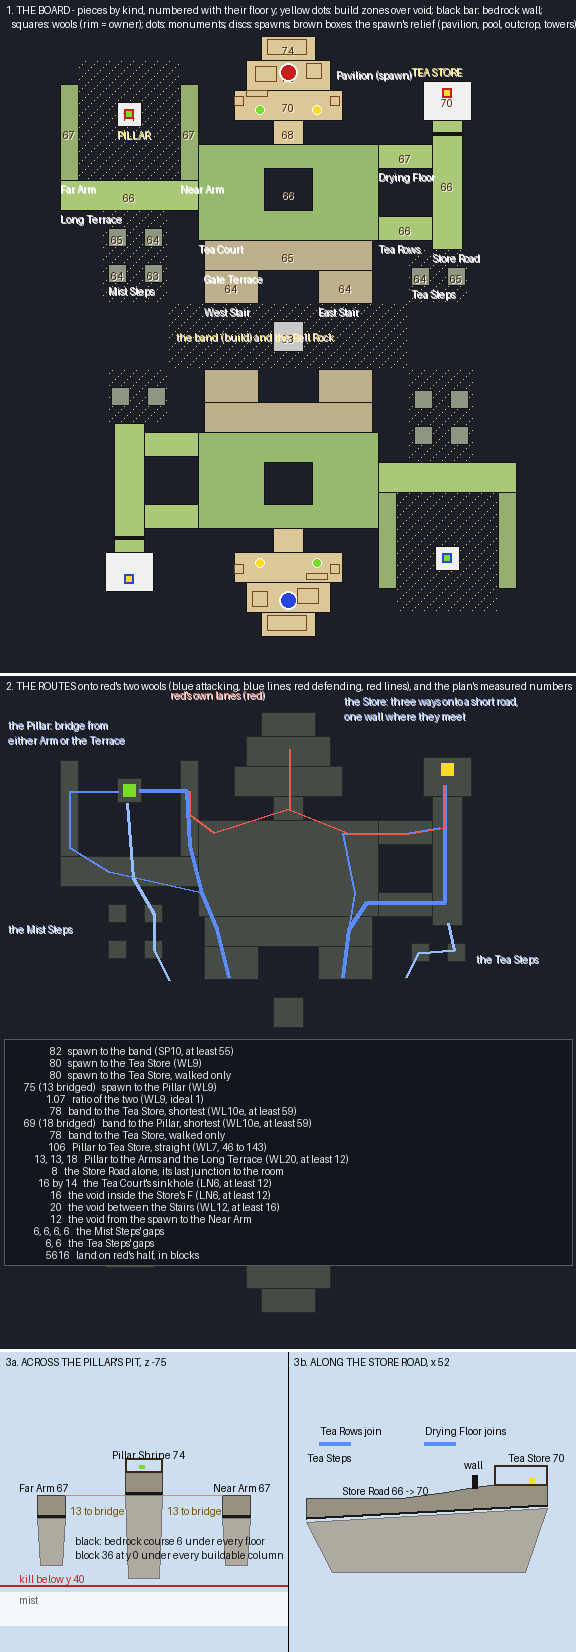
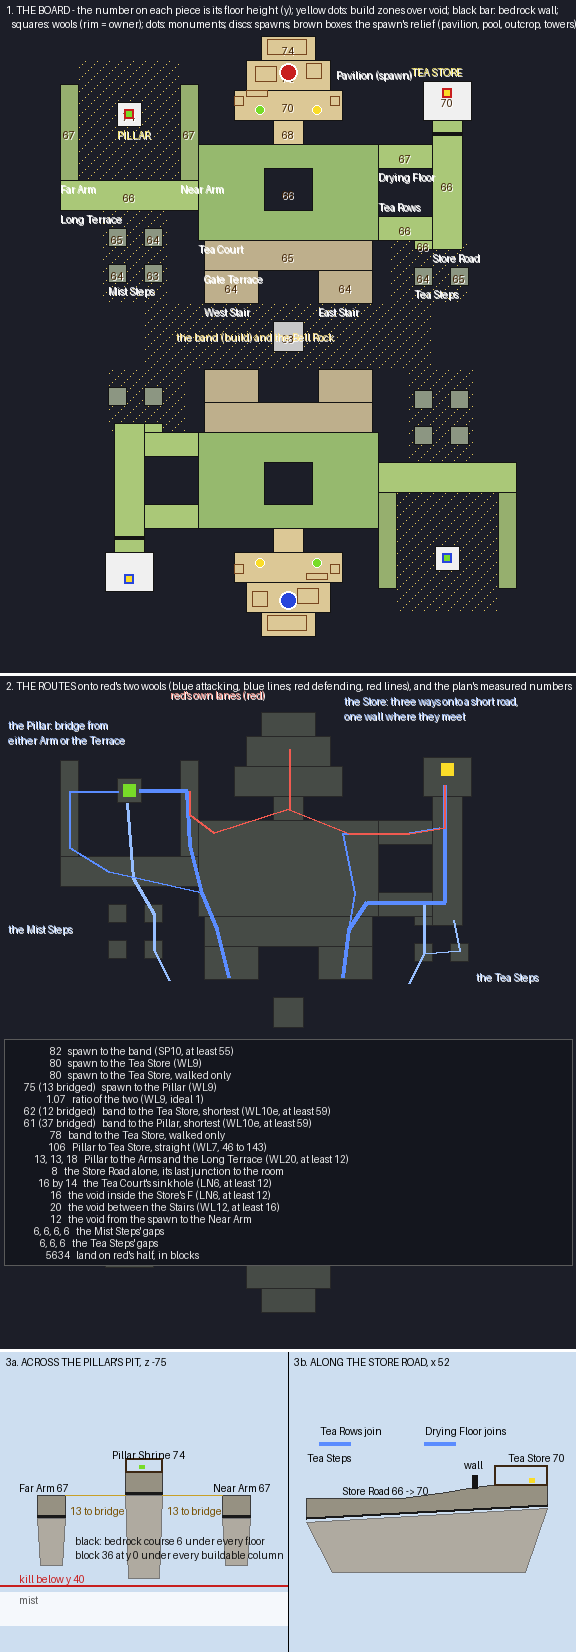
Lantern Karst (CTW): band widened under the first steps, Tea Steps zone meets the Rows, Tea Landing added
Claude-Session: https://claude.ai/code/session_01JFykgZF2FRCqGGugXE9LUG

diff --git a/freeform/opus55-freeform-lantern-karst/scripts/sketch.py b/freeform/opus55-freeform-lantern-karst/scripts/sketch.py
@@ -84,6 +84,8 @@ def board(d, oy):
     for p in P.PIECES:
         if p["key"] in names:
             x0 = min(q[0] for q in p["poly"]); z1 = max(q[1] for q in p["poly"])
+            if p["key"] == "rows":
+                z1 = min(q[1] for q in p["poly"]) - 6
             if p["key"] in ("store", "sp-mid"):
                 x0, z1 = (x0 - 4, min(q[1] for q in p["poly"]) - 6) if p["key"] == "store" else (x0 + 30, z1 - 8)
             label(d, x0, z1 + 1, names[p["key"]], oy, fill=(255, 255, 255) if p["key"] not in ("pillar", "store") else (255, 240, 120))
@@ -92,7 +94,7 @@ def board(d, oy):
             d.rectangle([px(min(x for x, z in qq), min(z for x, z in qq), 0, oy), px(max(x for x, z in qq) - 1, max(z for x, z in qq) - 1, 0, oy)],
                         outline=(120, 70, 30), width=1)
     label(d, -38, -2, "the band (build) and the Bell Rock", oy, fill=(255, 230, 140))
-    d.text((6, oy + 4), "1. THE BOARD - pieces by kind, numbered with their floor y; yellow dots: build zones over void;"
+    d.text((6, oy + 4), "1. THE BOARD - the number on each piece is its floor height (y); yellow dots: build zones over void;"
            " black bar: bedrock wall;\n   squares: wools (rim = owner); dots: monuments; discs: spawns; brown boxes: the spawn's relief (pavilion, pool, outcrop, towers)", fill=(255, 255, 255))
 
 
@@ -103,14 +105,15 @@ def routes(d, oy, table):
             d.polygon([px(x, z, 0, oy) for x, z in q], fill=(70, 75, 70), outline=(40, 40, 40))
     blue_store = [(18, -12), (20, -28), (26, -37), (52, -37), (52, -66), (52, -76)]
     blue_store_far = [(20, -28), (22, -40), (18, -60), (38, -60), (50, -62)]
-    blue_store_flank = [(39, -12), (43, -20), (55, -21), (53, -30)]
+    blue_store_flank = [(40, -10), (45, -20), (45, -31), (45, -36)]
+    blue_store_flank2 = [(45, -20), (57, -21), (55, -31)]
     blue_pillar = [(-20, -12), (-24, -28), (-29, -40), (-33, -56), (-34, -74), (-50, -74)]
     blue_pillar_far = [(-29, -40), (-60, -47), (-73, -55), (-73, -74), (-57, -74)]
     blue_flank = [(-40, -11), (-45, -21), (-45, -33), (-52, -45), (-54, -70)]
     red_store = [(0, -88), (0, -68), (20, -60), (40, -60), (52, -62), (52, -76)]
     red_pillar = [(0, -88), (0, -68), (-25, -60), (-33, -66), (-33, -74)]
     for pts, col, w_ in ((blue_store, (90, 140, 255), 4), (blue_store_far, (90, 140, 255), 2), (blue_pillar, (90, 140, 255), 4),
-                         (blue_flank, (150, 190, 255), 3), (blue_store_flank, (150, 190, 255), 3),
+                         (blue_flank, (150, 190, 255), 3), (blue_store_flank, (150, 190, 255), 3), (blue_store_flank2, (150, 190, 255), 2),
                          (blue_pillar_far, (90, 140, 255), 2), (red_store, (240, 90, 80), 2), (red_pillar, (240, 90, 80), 2)):
         d.line([px(x, z, 0, oy) for x, z in pts], fill=col, width=w_)
     for wl in P.WOOLS:
@@ -122,7 +125,7 @@ def routes(d, oy, table):
     label(d, -94, -98, "the Pillar: bridge from", oy, fill=(170, 200, 255))
     label(d, -94, -93, "either Arm or the Terrace", oy, fill=(170, 200, 255))
     label(d, -94, -30, "the Mist Steps", oy, fill=(190, 215, 255))
-    label(d, 62, -20, "the Tea Steps", oy, fill=(190, 215, 255))
+    label(d, 62, -14, "the Tea Steps", oy, fill=(190, 215, 255))
     label(d, -40, -108, "red's own lanes (red)", oy, fill=(255, 160, 150))
     y = int(H * 0.55)
     d.rectangle([4, oy + y - 6, W - 4, oy + y + 12 * len(table) + 4], fill=(20, 22, 30), outline=(90, 90, 90))

diff --git a/freeform/opus55-freeform-lantern-karst/scripts/plan.py b/freeform/opus55-freeform-lantern-karst/scripts/plan.py
@@ -69,13 +69,14 @@ PIECES = [
     dict(key="drying", name="the Drying Floor", kind="lane", poly=rect(30, -64, 47, -57), y=67),
     dict(key="road", name="the Store Road", kind="lane", poly=rect(48, -72, 57, -30), y=66, climb=(66, 70, -52, -72)),
     dict(key="store", name="the Tea Store", kind="wool", poly=rect(45, -85, 60, -73), y=70),
-    # the Store's flank: two islets from the band's east end to the road's foot
-    dict(key="e-1", name="Tea Step I", kind="islet", poly=rect(41, -23, 46, -18), y=64),
-    dict(key="e-2", name="Tea Step II", kind="islet", poly=rect(53, -23, 58, -18), y=65),
+    # the Store's flank: two islets from the band's east end, one to the road's foot and one to a landing off the Rows
+    dict(key="landing", name="the Tea Landing", kind="lane", poly=rect(42, -32, 47, -30), y=66),
+    dict(key="e-1", name="Tea Step I", kind="islet", poly=rect(42, -23, 47, -18), y=64),
+    dict(key="e-2", name="Tea Step II", kind="islet", poly=rect(54, -23, 59, -18), y=65),
 ]
 
 # the middle: the build band across the chasm, and the Bell Rock standing in it
-BAND = rect(-40, -11, 39, 10)
+BAND = rect(-48, -11, 47, 10)       # wide enough to reach under the first column of each chain of steps
 BELL_ROCK = dict(key="bell", name="the Bell Rock", poly=rect(-5, -5, 4, 4), y=68)
 
 # where blocks may be placed over void. Everywhere else the void cannot be built over, at any height.
@@ -83,7 +84,7 @@ BUILD_ZONES = [
     dict(key="band", name="the band", poly=BAND),
     dict(key="pit", name="the Pillar's pit", poly=rect(-70, -92, -37, -53)),
     dict(key="w-steps", name="the Mist Steps", poly=rect(-62, -42, -41, -12)),
-    dict(key="e-steps", name="the Tea Steps", poly=rect(40, -29, 59, -12)),
+    dict(key="e-steps", name="the Tea Steps", poly=rect(34, -32, 59, -12)),
 ]
 
 # a bedrock defence wall: one across the Store Road's last stretch, where its three ways in have met.
@@ -116,6 +117,6 @@ PLACES = [
     dict(name="the Pillar Shrine", why="WOOL: lime, on a pillar between the Arms, 13 off each and 7 above them"),
     dict(name="the Mist Steps", why="the Pillar's flank: four islets on a grid from the band onto the Long Terrace"),
     dict(name="the Tea Rows, the Drying Floor and the Store Road", why="the Store's F: two ways from the hub onto a short road"),
-    dict(name="the Tea Steps", why="the Store's flank: two islets from the band to the road's foot"),
+    dict(name="the Tea Steps", why="the Store's flank: two islets from the band to the road's foot and the Rows' landing"),
     dict(name="the Tea Store", why="WOOL: yellow, a storehouse at the road's head, two faces on void"),
 ]

diff --git a/freeform/opus55-freeform-lantern-karst/scripts/plan_check.py b/freeform/opus55-freeform-lantern-karst/scripts/plan_check.py
@@ -124,7 +124,7 @@ def main():
     out.append(("the void from the spawn to the Near Arm", f"{gap(X, Z, owner, 'sp-front', 'f-east'):.0f}"))
     out.append(("the Mist Steps' gaps", ", ".join(f"{gap(X, Z, owner, a, b):.0f}" for a, b in
                                                (("w-1", "w-2"), ("w-1", "w-3"), ("w-3", "f-stem"), ("w-4", "f-stem")))))
-    out.append(("the Tea Steps' gaps", ", ".join(f"{gap(X, Z, owner, a, b):.0f}" for a, b in (("e-1", "e-2"), ("e-2", "road")))))
+    out.append(("the Tea Steps' gaps", ", ".join(f"{gap(X, Z, owner, a, b):.0f}" for a, b in (("e-1", "e-2"), ("e-2", "road"), ("e-1", "landing")))))
     out.append(("land on red's half, in blocks", f"{int((land & (Z < 0)).sum())}"))
     w_ = max(len(a) for a, b in out)
     for a, b in out:

diff --git a/freeform/opus55-freeform-lantern-karst/PLAN.md b/freeform/opus55-freeform-lantern-karst/PLAN.md
@@ -16,6 +16,10 @@ lanterns along the Store Road, and the Bell Rock in the middle of the chasm wher
 
 The first version's sketch is `renders/00-plan-sketch-v1.png`, drawn by `scripts/sketch_v1.py`.
 
+**How to read the sketch.** The number on each piece is its floor height in blocks (y). Yellow dots are
+void that may be built over; everything dark without dots cannot be. The table in the second panel is the
+walking distances below, each with the rule it is held to.
+
 ## How the plan changed
 
 | The review said | What changed |
@@ -28,6 +32,14 @@ The first version's sketch is `renders/00-plan-sketch-v1.png`, drawn by `scripts
 | Bring the frontline closer, legs wider and shorter | The Stairs are 18 wide and 11 long (were 12 by 19); the bar is 8 nearer the band |
 | Steps like the Mist Steps would also suit the Store Road | The Tea Steps, two islets from the band's east end to the road's foot |
 | A floating map needs a bedrock floor and an obvious build area | A bedrock course under every island; block 36 at y 0 under every buildable column |
+
+**The second review joined the steps to the band and the Rows.**
+
+| The review said | What changed |
+|---|---|
+| The band meets each chain of steps only at a corner, which cannot be crossed well | The band is 96 wide (was 80); it runs under the first column of steps on each side and shares an edge with their zone |
+| The Tea Steps' zone meets only the Store Road | The zone is widened west to meet the Tea Rows along 14 blocks |
+| Add a small piece off the Tea Rows to step onto | The Tea Landing, 6 × 3 off the Rows, in line with the first Tea Step and 6 from it |
 
 **No lane on the board is longer than 46 blocks, and none is a dead end.** The longest is the Long Terrace,
 and both its ends lead somewhere: the Near Arm meets the hub, and the Far Arm stands over the pit.
@@ -90,7 +102,7 @@ reverse.
 | The Tea Court | 60 × 32 ring round a 16 × 14 sinkhole | 66 | the hub: tea terraces, a well, lanterns; every crossing has a near and a far side |
 | The Gate Terrace | 56 × 10 | 65 | the frontline's bar, a gate pavilion over its middle |
 | The West and East Stairs | 18 × 11 each | 64 | the frontline's legs down to the band, 20 of void between them |
-| The band and the Bell Rock | 80 × 22 of void, a 10 × 10 islet | 68 | the build band across the chasm; a bell pavilion on the islet |
+| The band and the Bell Rock | 96 × 22 of void, a 10 × 10 islet | 68 | the build band across the chasm; a bell pavilion on the islet |
 | The Long Terrace | 46 × 10 west out of the hub | 66 | the Pillar's F, its long stroke |
 | The Near and Far Arms | 6 × 32 each, back from the Terrace | 67 | the F's short strokes; the Near Arm also touches the hub |
 | **The Pillar Shrine** | 8 × 8 on a pillar | 74 | **lime wool**: an open shrine, 13 off each Arm, 18 off the Terrace, 7 above |
@@ -101,6 +113,7 @@ reverse.
 | The bedrock wall | 10 across the road, 4 high | — | the Store's prepared line, 3 after the Drying Floor joins and 4 before the room |
 | **The Tea Store** | 16 × 13 at the road's head | 70 | **yellow wool**: a stone storehouse, two faces on void, chests of better gear |
 | The Tea Steps | two 6 × 6 islets | 64–65 | the Store's flank: from the band's east end to the road's foot |
+| The Tea Landing | 6 × 3 off the Tea Rows | 66 | where the first Tea Step leads, so a climber need not go to the road |
 
 **The monuments stand on the Monument Terrace either side of the steps**, where a carrier coming home
 cannot miss them: lime on the left, yellow on the right.
@@ -134,7 +147,8 @@ onto the Long Terrace, 6-block gaps each, and the attacker who takes them never 
 
 **The Tea Store stands at the head of a short road with three ways onto it.** The Tea Rows and the Drying
 Floor both leave the hub's east face and meet the Store Road, with 16 of void between them, so the attacker
-chooses a side as at the hub. The Tea Steps bring a third way from the band's east end to the road's foot.
+chooses a side as at the hub. The Tea Steps bring a third way from the band's east end, to the road's foot or to the Tea Landing on the
+Rows.
 
 **All three meet at one wall, eight blocks before the room.** That is the Store's prepared line, as a
 capture room has one. What the first version lacked is that there are three ways to the line, and that the
@@ -149,8 +163,9 @@ length):
 | spawn to the Tea Store, walked | 80 | WL9: comparable |
 | spawn to the Pillar (13 of it bridged) | 75 | WL9: comparable |
 | their ratio | 1.07 | WL9: ideal 1 |
-| band to the Tea Store | 78 | WL10e: at least 59 |
-| band to the Pillar, shortest (18 of it bridged) | 69 | WL10e: at least 59 |
+| band to the Tea Store, shortest (12 of it bridged) | 62 | WL10e: at least 59 |
+| band to the Tea Store, walked | 78 | — |
+| band to the Pillar, shortest, by the Mist Steps (37 of it bridged) | 61 | WL10e: at least 59 |
 | Pillar to Tea Store, straight | 106 | WL7: 46 to 143 |
 | Pillar to the Arms and the Terrace | 13, 13, 18 | WL20: at least 12 |
 | the Store Road alone, after its last join | 8 | — |
@@ -159,7 +174,7 @@ length):
 | the void between the Stairs | 20 | WL12: at least 16 |
 | the void from the spawn to the Near Arm | 12 | — |
 | the Mist Steps' and Tea Steps' gaps | 6 each | — |
-| land on red's half | 5,616 blocks | — |
+| land on red's half | 5,634 blocks | — |
 
 `scripts/plan_check.py` prints this table from the plan's polygons.
 
@@ -216,9 +231,9 @@ spawn stay uncrossable all match. That is the rule the account says makes a void
 
 ## Decisions for you
 
-1. **The Drying Floor is terrace.** You offered a build zone for the F's second stroke. I made it terrace
-   so the defenders walk to their Store in 80; as a build zone they walk 116. Keep it terrace?
-2. **The Near Arm touches the hub.** That makes the Pillar easy to reach from the middle, at 13 blocks of
-   bridge. Should the Near Arm stand off the hub instead, so the hub is not a launch point?
+1. **The two flanks are now the shortest ways from the band to each wool**, at 61 and 62 against a floor
+   of 59. That is near the floor. Should the steps be pushed back a few blocks for margin?
+2. **The arm nearest the hub touches it.** That makes the Pillar reachable straight from the middle, at 13
+   blocks of bridge. Should that arm stand off the hub instead?
 3. **The spawn is 12 blocks of void from the Near Arm.** An attacker there can shoot into the spawn's
-   front terrace. Is that a problem, or a reason for the spawn's west tower?
+   front terrace. Is that acceptable?
